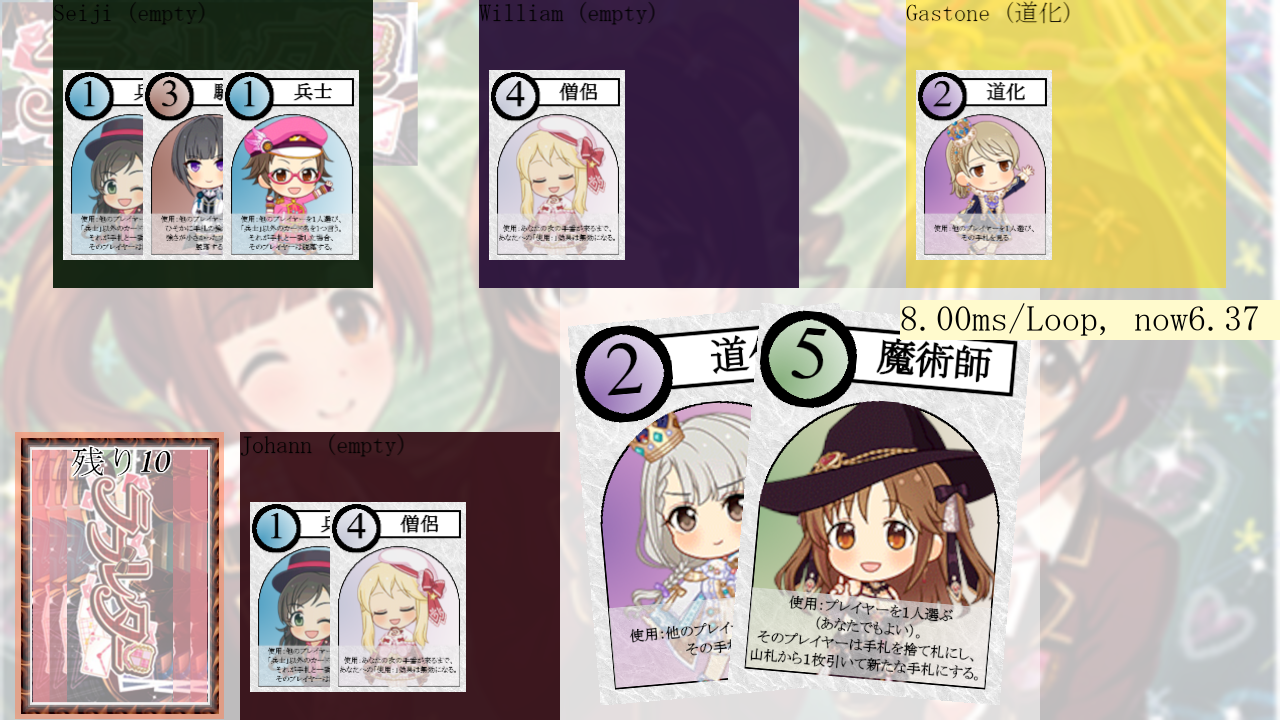
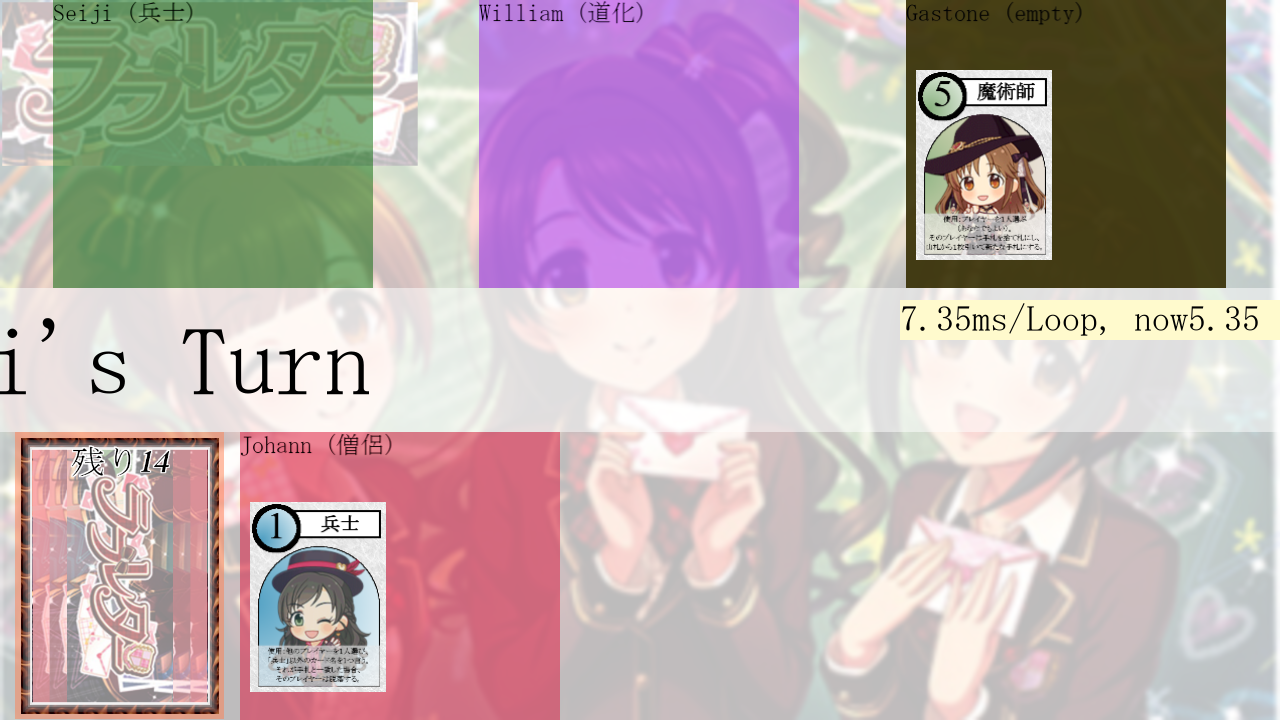
L191:TurnStartsControllerからMessagesControllerを削って直接whileloopに繋げる

diff --git a/ll/ctrl/turn_starts.py b/ll/ctrl/turn_starts.py
@@ -1,6 +1,6 @@
 from any.font import MS_MINCHO_COL
-from ctrl.messages import MessagesController
 from ptc.bridge import Bridge
+from view.message_view import MessageView
 
 _FONT_H = 96
 
@@ -10,7 +10,7 @@ class TurnStartsController():
         self.bridge = bridge
 
     def action(self) -> None:
-        MessagesController(
-            bridge=self.bridge,
+        self.bridge.whileloop(new_view=MessageView(
+            view=self.bridge.view,
             img_mes=MS_MINCHO_COL(f"{self.bridge.board.turn_player.name}'s Turn", _FONT_H, "black"),
-        ).action()
+        ))
